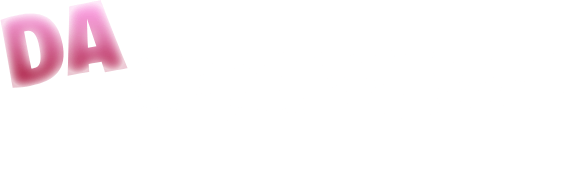
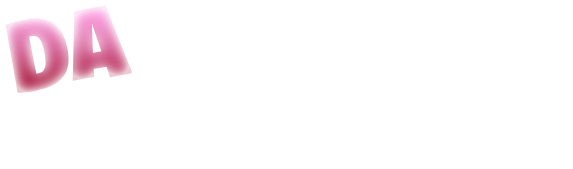
xcv

Changed region(s): [[0.0, 0.0, 0.2373, 0.5621]]

diff --git a/index.html b/index.html
@@ -68,7 +68,7 @@
         <div>
             <nav class="max-w-[1500px] p-4 mx-auto flex justify-between">
                 <a href="/" class="text-2xl font-bold">
-                    <img src="/dahood-removebg-preview.png" alt="Da Hood Logo" class="h-16">
+                    <img src="/dahood-removebg-preview.png" alt="Da Hood Logo" class="h-12">
                 </a>
                 <!-- Menu container -->
                 <div class="menu-container">
